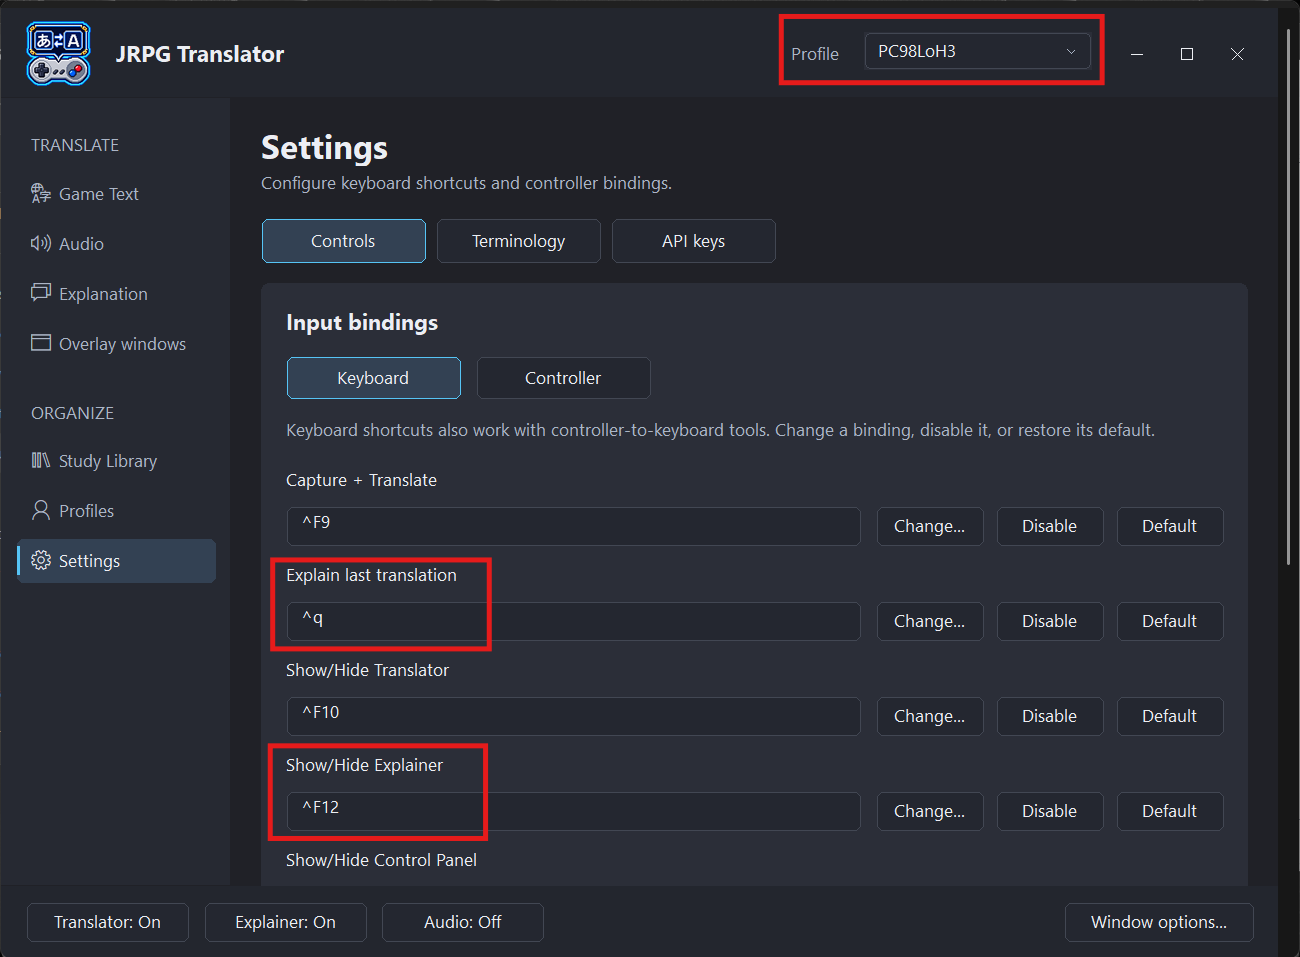
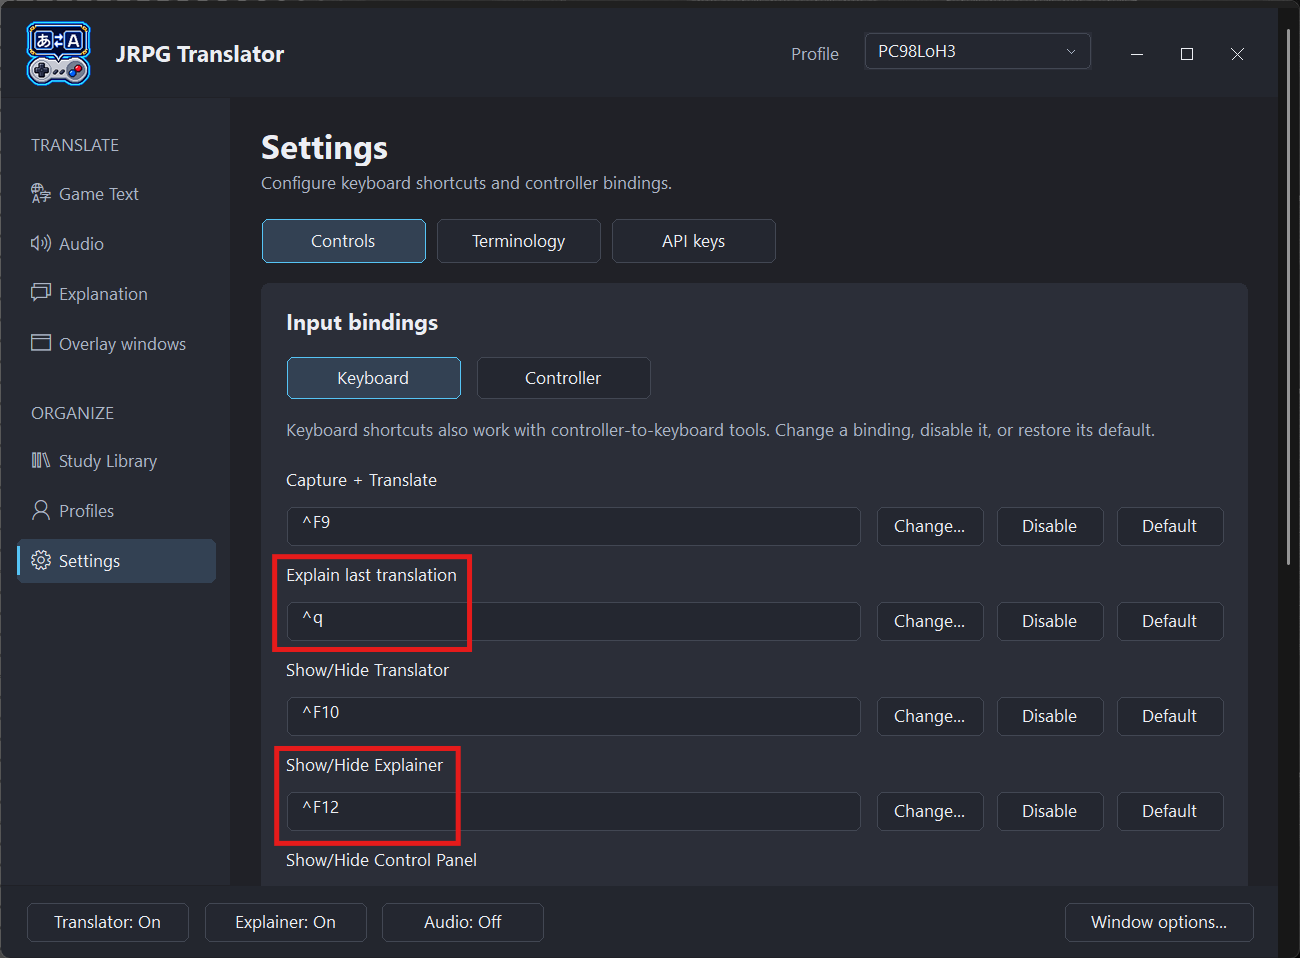
docs: refresh JoyToKey screenshot highlights

diff --git a/docs/manual/SCREENSHOTS.md b/docs/manual/SCREENSHOTS.md
@@ -27,7 +27,7 @@ S05 is an annotated overview based on the supplied S07 screenshot; the unannotat
 | S03 | Complete | [API-key storage choices](02-setup.md) | S03a: [api-key-settings.png](images/api-key-settings.png), S03b: [api-key-windows-shortcut.png](images/api-key-windows-shortcut.png), S03c: [windows-user-api-variables.png](images/windows-user-api-variables.png) | S03a: optional in-app key storage with masked fields. S03b: direct shortcut to Windows Environment Variables. S03c: provider keys in User variables, with credentials and personal details redacted. |
 | S04 | Complete | [First capture and result](02-setup.md) | [first-capture-and-result.png](images/first-capture-and-result.png) | Added: original game dialogue and matching translated output; no region-selection outline. |
 | S05 | Complete | [Desktop orientation](03-interface-and-controller.md) | [desktop-orientation.png](images/desktop-orientation.png) | Added: four numbered labels identifying sidebar, header Profile selector, page content, and footer. Original preserved as S07a. |
-| S06 | Complete | [Controls, shortcuts, and JoyToKey](03a-controls-and-shortcuts.md) | S06a: [controls-and-bindings.png](images/controls-and-bindings.png), S06b: [controller-options-and-detection.png](images/controller-options-and-detection.png), S06c: [joytokey-shortcuts.png](images/joytokey-shortcuts.png), S06d: [joytokey-profile-and-button.png](images/joytokey-profile-and-button.png), S06e: [joytokey-short-long-press.png](images/joytokey-short-long-press.png) | S06a–b: direct-action assignments, detection, and controller switches. S06c: supplied JoyToKey3.png, with JRPG Translator shortcuts and active Profile highlighted. S06d: JoyToKey1.png, with JoyToKey profile and LB highlighted. S06e: JoyToKey2.png, with Ctrl+Q / Ctrl+F12 and the 300 ms short-/long-press threshold highlighted. |
+| S06 | Complete | [Controls, shortcuts, and JoyToKey](03a-controls-and-shortcuts.md) | S06a: [controls-and-bindings.png](images/controls-and-bindings.png), S06b: [controller-options-and-detection.png](images/controller-options-and-detection.png), S06c: [joytokey-shortcuts.png](images/joytokey-shortcuts.png), S06d: [joytokey-profile-and-button.png](images/joytokey-profile-and-button.png), S06e: [joytokey-short-long-press.png](images/joytokey-short-long-press.png) | S06a–b: direct-action assignments, detection, and controller switches. S06c: supplied JoyToKey3.png, with only the two JRPG Translator shortcuts highlighted. S06d: JoyToKey1.png, with JoyToKey profile and LB highlighted. S06e: JoyToKey2.png, with the Keyboard (Multi) tab, Ctrl+Q / Ctrl+F12, and the 300 ms short-/long-press threshold highlighted. |
 | S07 | Complete | [Game Text page](04-game-text-translation.md) | S07a: [game-text-page.png](images/game-text-page.png), S07b: [game-text-formatting-and-startup.png](images/game-text-formatting-and-startup.png) | S07a: original S07 AI settings and capture actions. S07b: multiple-capture help, Formatting, and Startup & advanced capture, including image-size limit. |
 | S08 | Complete | [Capture choices](04-game-text-translation.md) | [capture-choices.png](images/capture-choices.png) | Added: desktop Capture region / Capture window menu. Its size limit lives in advanced capture settings, not in this popup. |
 | S09 | Complete | [Audio setup and input check](05-audio-translation.md) | [audio-setup-and-input-check.png](images/audio-setup-and-input-check.png), [audio-input-check-result.png](images/audio-input-check-result.png), [audio-start-stop-control.png](images/audio-start-stop-control.png) | S09a: AI/language and playback-device selection. S09b: successful local input check and expanded troubleshooting. S09c: Live translation start control and Off status. |

diff --git a/docs/manual/03a-controls-and-shortcuts.md b/docs/manual/03a-controls-and-shortcuts.md
@@ -53,9 +53,9 @@ JoyToKey is optional. It converts controller input into keyboard input, so it ca
 
 Start in **Settings → Controls → Keyboard**. The two highlighted actions below are a useful pair: generate an explanation with a short press, then show or hide the Explainer overlay with a long press of the same button.
 
-![JRPG Translator keyboard controls with Explain last translation set to Ctrl+Q, Show/Hide Explainer set to Ctrl+F12, and the active Profile highlighted](images/joytokey-shortcuts.png)
+![JRPG Translator keyboard controls with Explain last translation set to Ctrl+Q and Show/Hide Explainer set to Ctrl+F12 highlighted](images/joytokey-shortcuts.png)
 
-*Figure S06c. Start with the highlighted keyboard shortcuts in JRPG Translator. The header also identifies the active JRPG Translator Profile.*
+*Figure S06c. Start with the two highlighted keyboard shortcuts in JRPG Translator. These shortcuts are shared across Profiles.*
 
 | Press on the same button | Shortcut in this example | Action |
 | --- | --- | --- |
@@ -74,7 +74,7 @@ In JoyToKey, select the profile you want to use for the game, then select the bu
 
 *Figure S06d. Select the game's JoyToKey profile and the button that will handle both actions.*
 
-The highlighted profile names belong to **two separate applications**. JRPG Translator [profiles](09-profiles.md) can save the D-pad navigation preference alongside capture and overlay settings; keyboard shortcuts and native direct-action assignments remain shared. JoyToKey profiles store the per-game button mappings. The [plugin](10-launchbox-and-big-box.md#configure-a-game) can load the chosen JRPG Translator Profile and JoyToKey profile when a game starts. Their names do not have to match.
+The highlighted profile in JoyToKey stores its per-game button mappings. It is separate from JRPG Translator [profiles](09-profiles.md), which can save the D-pad navigation preference alongside capture and overlay settings; keyboard shortcuts and native direct-action assignments remain shared. The [plugin](10-launchbox-and-big-box.md#configure-a-game) can load the chosen JRPG Translator Profile and JoyToKey profile when a game starts. Their names do not have to match.
 
 ### 3. Assign a short press and a long press
 
@@ -84,9 +84,9 @@ The highlighted profile names belong to **two separate applications**. JRPG Tran
 4. Select **Switch depending on how long the button is pressed** and set the threshold to **300 msec**, as shown. You can adjust this threshold to suit your timing.
 5. Choose **OK**, then test a short press and a long press while the game is active. Confirm that each press invokes only its intended action.
 
-![JoyToKey Keyboard Multi settings with Input1 Ctrl+Q, Input2 Ctrl+F12, and press-duration switching at a 300 millisecond threshold highlighted](images/joytokey-short-long-press.png)
+![JoyToKey with the Keyboard (Multi) tab, Input1 Ctrl+Q, Input2 Ctrl+F12, and press-duration switching at a 300 millisecond threshold highlighted](images/joytokey-short-long-press.png)
 
-*Figure S06e. One LB button, two actions: shorter presses use Input1 to request an explanation; longer presses use Input2 to show or hide the Explainer.*
+*Figure S06e. Use the highlighted Keyboard (Multi) tab to assign two actions to LB: shorter presses use Input1 to request an explanation; longer presses use Input2 to show or hide the Explainer.*
 
 You can use the same approach for other pairs of JRPG Translator shortcuts. The mappings shown here are an example, not a supplied JoyToKey configuration.
 
